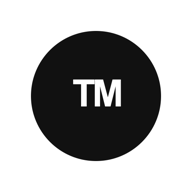
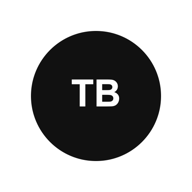
Rename product to Tibo Bless

Changed region(s): [[0.4062, 0.4062, 0.6562, 0.5625], [0.3438, 0.4062, 0.4062, 0.4375]]

diff --git a/app/TiboBless.tsx b/app/TiboBless.tsx
@@ -1,7 +1,7 @@
 "use client";
 
 import { useEffect, useMemo, useState } from "react";
-import { buildForecast, buildMercyCalendar, evaluateCapability, evaluateJuice, predictionPerformance } from "@/lib/monitor-logic";
+import { buildBlessCalendar, buildForecast, evaluateCapability, evaluateJuice, predictionPerformance } from "@/lib/monitor-logic";
 import { monitorData, type Localized } from "./monitor-data";
 
 type Language = "ko" | "en";
@@ -11,14 +11,14 @@ type InstallPrompt = Event & { prompt: () => Promise<void>; userChoice: Promise<
 const labels = {
   ko: {
     reset: "리셋", juice: "Juice", capability: "역량", alerts: "알림", installApp: "앱 설치", installHint: "브라우저 메뉴에서 ‘홈 화면에 추가’ 또는 ‘앱 설치’를 선택하세요.", language: "EN",
-    eyebrow: "공개 근거 기반 CODEX 모니터", heroTitle: "Tibo의 자비는\n언제 올까요?",
+    eyebrow: "공개 근거 기반 CODEX 모니터", heroTitle: "Tibo의 축복은\n언제 올까요?",
     heroBody: "공개 게시물의 표현, 범위, 시점을 분류해 글로벌 Codex 리셋과 다음 24·48시간 가능성을 추적합니다.",
     heroCta: "최신 근거 보기", verified: "검증된 공개 근거", noGuarantee: "실험적 확률 · 보장값 아님",
     nextReset: "다음 리셋 가능성", lastReset: "마지막 확정 리셋", since: "경과", hours24: "24시간", hours48: "48시간",
     analysis: "계산 근거", trackRecord: "예측 기록", forecastReason: "왜 이 확률인가요?",
     baseline: "활성 예측 신호가 없어 보수적인 과거 리셋 간격 기준을 사용합니다.",
-    waitingKicker: "THE WAITING GAME", waitingTitle: "우리는 기다렸고, Tibo는 리셋했다.", waitingBody: "최근 26주를 한눈에 봅니다. 검은 칸은 자비가 온 날, 숫자는 하루에 여러 번 리셋된 날입니다.",
-    mercyDays: "자비가 온 날", currentWait: "현재 기다림", longestWait: "최장 기다림", less: "기다림", more: "자비", noReset: "리셋 없음", resetsOnDay: "회 리셋", calendarHint: "리셋된 날짜를 누르면 공개 근거로 이동합니다.",
+    waitingKicker: "THE WAITING GAME", waitingTitle: "우리는 기다렸고, Tibo의 축복이 왔다.", waitingBody: "최근 26주를 한눈에 봅니다. 검은 칸은 축복이 온 날, 숫자는 하루에 여러 번 리셋된 날입니다.",
+    blessDays: "축복이 온 날", currentWait: "현재 기다림", longestWait: "최장 기다림", less: "기다림", more: "축복", noReset: "리셋 없음", resetsOnDay: "회 리셋", calendarHint: "리셋된 날짜를 누르면 공개 근거로 이동합니다.",
     sourceLedger: "출처를 보존하는 공개 장부", timeline: "리셋 타임라인", timelineBody: "확정 리셋과 확률을 바꾼 공개 신호. 최신 항목부터 표시합니다.",
     confirmed: "확정 리셋", signal: "공개 신호", source: "원문 보기", scope: "범위",
     evidenceKicker: "최신 검증 근거", evidenceTitle: "완료형 + 광범위 범위", evidenceBody: "기대, 요청, 개인 한도가 아니라 광범위한 사용자에게 완료된 리셋이라고 명시해야 확정합니다.", whyConfirmed: "확정 이유",
@@ -31,14 +31,14 @@ const labels = {
   },
   en: {
     reset: "Reset", juice: "Juice", capability: "Capability", alerts: "Alerts", installApp: "Install app", installHint: "Choose ‘Install app’ or ‘Add to Home Screen’ from your browser menu.", language: "KO",
-    eyebrow: "PUBLIC-EVIDENCE CODEX MONITOR", heroTitle: "When will Tibo\nshow mercy?",
+    eyebrow: "PUBLIC-EVIDENCE CODEX MONITOR", heroTitle: "When will Tibo\nbless us?",
     heroBody: "We classify the wording, scope, and timing of public posts to track global Codex resets and the next 24/48-hour probability.",
     heroCta: "See latest evidence", verified: "Verified public evidence", noGuarantee: "Experimental probability · not a guarantee",
     nextReset: "Next reset probability", lastReset: "Latest confirmed reset", since: "Elapsed", hours24: "24 hours", hours48: "48 hours",
     analysis: "Calculation", trackRecord: "Track record", forecastReason: "Why this estimate?",
     baseline: "No active predictive signal remains, so the conservative historical reset-interval baseline is used.",
-    waitingKicker: "THE WAITING GAME", waitingTitle: "We waited. Tibo reset.", waitingBody: "A 26-week view of the wait. Black means mercy arrived; a number marks multiple resets on the same day.",
-    mercyDays: "Mercy days", currentWait: "Current wait", longestWait: "Longest wait", less: "Waiting", more: "Mercy", noReset: "No reset", resetsOnDay: "resets", calendarHint: "Select a reset day to open its public evidence.",
+    waitingKicker: "THE WAITING GAME", waitingTitle: "We waited. Tibo blessed us.", waitingBody: "A 26-week view of the wait. Black means the blessing arrived; a number marks multiple resets on the same day.",
+    blessDays: "Blessing days", currentWait: "Current wait", longestWait: "Longest wait", less: "Waiting", more: "Blessings", noReset: "No reset", resetsOnDay: "resets", calendarHint: "Select a reset day to open its public evidence.",
     sourceLedger: "SOURCE-PRESERVING PUBLIC LEDGER", timeline: "Reset timeline", timelineBody: "Confirmed resets and public signals that changed the estimate. Latest first.",
     confirmed: "Confirmed reset", signal: "Public signal", source: "View source", scope: "Scope",
     evidenceKicker: "LATEST VERIFIED EVIDENCE", evidenceTitle: "Completed action + broad scope", evidenceBody: "A post must describe a completed reset for a broad group—not a hope, request, or personal limit—to be confirmed.", whyConfirmed: "Why it is confirmed",
@@ -55,7 +55,7 @@ function local(value: Localized, language: Language) {
   return value[language];
 }
 
-export function TibosMercy() {
+export function TiboBless() {
   const [language, setLanguage] = useState<Language>("ko");
   const [view, setView] = useState<View>("reset");
   const [analysisOpen, setAnalysisOpen] = useState(false);
@@ -66,12 +66,12 @@ export function TibosMercy() {
   const performance = useMemo(() => predictionPerformance(monitorData.forecastHistory, monitorData.events), []);
   const juice = useMemo(() => evaluateJuice(monitorData.juiceSweeps), []);
   const capability = useMemo(() => evaluateCapability(monitorData.capability, now), [now]);
-  const mercyCalendar = useMemo(() => buildMercyCalendar(monitorData.events, now, 26), [now]);
+  const blessCalendar = useMemo(() => buildBlessCalendar(monitorData.events, now, 26), [now]);
   const resets = useMemo(() => [...monitorData.events].sort((a, b) => b.dateTime.localeCompare(a.dateTime)), []);
   const latest = resets[0];
 
   useEffect(() => {
-    const saved = window.localStorage.getItem("tibos-mercy-language");
+    const saved = window.localStorage.getItem("tibo-bless-language");
     // eslint-disable-next-line react-hooks/set-state-in-effect -- hydrate the user preference after SSR
     if (saved === "ko" || saved === "en") setLanguage(saved);
     const hash = window.location.hash.slice(1);
@@ -80,7 +80,7 @@ export function TibosMercy() {
 
   useEffect(() => {
     document.documentElement.lang = language;
-    window.localStorage.setItem("tibos-mercy-language", language);
+    window.localStorage.setItem("tibo-bless-language", language);
   }, [language]);
 
   useEffect(() => {
@@ -120,7 +120,7 @@ export function TibosMercy() {
     if (!("Notification" in window)) return;
     const permission = await Notification.requestPermission();
     if (permission === "granted") {
-      new Notification("Tibos Mercy", { body: language === "ko" ? "브라우저 알림이 켜졌습니다." : "Browser alerts are enabled." });
+      new Notification("Tibo Bless", { body: language === "ko" ? "브라우저 알림이 켜졌습니다." : "Browser alerts are enabled." });
     }
   };
 
@@ -137,8 +137,8 @@ export function TibosMercy() {
   return (
     <div className="site-shell">
       <header className="top-nav">
-        <button className="wordmark" onClick={() => selectView("reset")} aria-label="Tibos Mercy home">
-          <span className="brand-mark">TM</span><strong>Tibos Mercy</strong>
+        <button className="wordmark" onClick={() => selectView("reset")} aria-label="Tibo Bless home">
+          <span className="brand-mark">TB</span><strong>Tibo Bless</strong>
         </button>
         <nav className="nav-pill" aria-label="Monitor views">
           {(["reset", "juice", "capability"] as View[]).map((item) => (
@@ -168,7 +168,7 @@ export function TibosMercy() {
                 </div>
               </div>
               <div className="hero-product-card" aria-label={copy.nextReset}>
-                <div className="product-window-bar"><span /><span /><span /><b>tibos-mercy / reset</b></div>
+                <div className="product-window-bar"><span /><span /><span /><b>tibo-bless / reset</b></div>
                 <div className="product-panel-head"><div><small>{copy.nextReset}</small><strong>{forecast.score48h}%</strong></div><span className="status-badge">LIVE</span></div>
                 <div className="probability-grid">
                   <ProbabilityRing value={forecast.score24h} label={copy.hours24} />
@@ -198,12 +198,12 @@ export function TibosMercy() {
                 <div className="waiting-game-heading">
                   <div className="section-heading"><p className="kicker">{copy.waitingKicker}</p><h2>{copy.waitingTitle}</h2><p>{copy.waitingBody}</p></div>
                   <div className="waiting-stats" aria-label={copy.waitingKicker}>
-                    <div><strong>{mercyCalendar.resetDays}</strong><span>{copy.mercyDays}</span></div>
-                    <div><strong>{mercyCalendar.currentWaitDays ?? "—"}</strong><span>{copy.currentWait} · {copy.days}</span></div>
-                    <div><strong>{mercyCalendar.longestWaitDays ?? "—"}</strong><span>{copy.longestWait} · {copy.days}</span></div>
+                    <div><strong>{blessCalendar.resetDays}</strong><span>{copy.blessDays}</span></div>
+                    <div><strong>{blessCalendar.currentWaitDays ?? "—"}</strong><span>{copy.currentWait} · {copy.days}</span></div>
+                    <div><strong>{blessCalendar.longestWaitDays ?? "—"}</strong><span>{copy.longestWait} · {copy.days}</span></div>
                   </div>
                 </div>
-                <MercyHeatmap calendar={mercyCalendar} language={language} copy={copy} />
+                <BlessHeatmap calendar={blessCalendar} language={language} copy={copy} />
                 <p className="calendar-hint">{copy.calendarHint}</p>
               </div>
             </section>
@@ -265,7 +265,7 @@ export function TibosMercy() {
         )}
       </main>
 
-      <footer className="dark-footer"><div className="container footer-grid"><div><div className="footer-wordmark"><span className="brand-mark">TM</span><strong>Tibos Mercy</strong></div><p>{copy.footerBody}</p></div><div><span>Monitor</span><button onClick={() => selectView("reset")}>{copy.reset}</button><button onClick={() => selectView("juice")}>{copy.juice}</button><button onClick={() => selectView("capability")}>{copy.capability}</button></div><div><span>Sources</span><a href="https://x.com/thsottiaux" target="_blank" rel="noreferrer">Tibo on X</a><a href="https://status.openai.com" target="_blank" rel="noreferrer">OpenAI Status</a><a href="https://codexradar.com/en/" target="_blank" rel="noreferrer">Codex Radar</a></div></div><div className="container footer-bottom"><span>© 2026 Tibos Mercy</span><span>{copy.disclaimer}</span><button onClick={toggleLanguage}>한국어 / English</button></div></footer>
+      <footer className="dark-footer"><div className="container footer-grid"><div><div className="footer-wordmark"><span className="brand-mark">TB</span><strong>Tibo Bless</strong></div><p>{copy.footerBody}</p></div><div><span>Monitor</span><button onClick={() => selectView("reset")}>{copy.reset}</button><button onClick={() => selectView("juice")}>{copy.juice}</button><button onClick={() => selectView("capability")}>{copy.capability}</button></div><div><span>Sources</span><a href="https://x.com/thsottiaux" target="_blank" rel="noreferrer">Tibo on X</a><a href="https://status.openai.com" target="_blank" rel="noreferrer">OpenAI Status</a><a href="https://codexradar.com/en/" target="_blank" rel="noreferrer">Codex Radar</a></div></div><div className="container footer-bottom"><span>© 2026 Tibo Bless</span><span>{copy.disclaimer}</span><button onClick={toggleLanguage}>한국어 / English</button></div></footer>
 
       {analysisOpen && <div className="modal-backdrop" role="presentation" onMouseDown={() => setAnalysisOpen(false)}><section className="analysis-modal" role="dialog" aria-modal="true" aria-label={copy.analysis} onMouseDown={(event) => event.stopPropagation()}><button className="modal-close" onClick={() => setAnalysisOpen(false)} aria-label="Close">×</button><p className="kicker">FORECAST ANALYSIS</p><h2>{copy.analysis}</h2><dl><div><dt>{copy.method}</dt><dd>{forecast.method}</dd></div><div><dt>{copy.sample}</dt><dd>{forecast.sampleSize}</dd></div><div><dt>{copy.mean}</dt><dd>{forecast.meanIntervalDays} days</dd></div><div><dt>{copy.adjustment}</dt><dd>24h {forecast.adjustment24h >= 0 ? "+" : ""}{forecast.adjustment24h}pt · 48h {forecast.adjustment48h >= 0 ? "+" : ""}{forecast.adjustment48h}pt</dd></div></dl><button className="button-primary" onClick={() => setAnalysisOpen(false)}>OK</button></section></div>}
     </div>
@@ -287,7 +287,7 @@ function TrendBars({ values }: { values: number[] }) {
   return <div className="trend-chart" role="img" aria-label="Capability trend">{values.map((value, index) => <i key={`${value}-${index}`} style={{ height: `${Math.max(10, ((value - minimum) / (maximum - minimum)) * 100)}%` }}><span>{value.toFixed(1)}</span></i>)}</div>;
 }
 
-function MercyHeatmap({ calendar, language, copy }: { calendar: ReturnType<typeof buildMercyCalendar>; language: Language; copy: typeof labels.ko | typeof labels.en }) {
+function BlessHeatmap({ calendar, language, copy }: { calendar: ReturnType<typeof buildBlessCalendar>; language: Language; copy: typeof labels.ko | typeof labels.en }) {
   const locale = language === "ko" ? "ko-KR" : "en-US";
   const monthLabels = calendar.weeks.map((week, index) => {
     const firstVisible = week.find((day) => !day.future);
@@ -312,12 +312,12 @@ function MercyHeatmap({ calendar, language, copy }: { calendar: ReturnType<typeo
           {calendar.weeks.map((week, weekIndex) => <div className="heatmap-week" key={weekIndex}>{week.map((day) => {
             const label = describe(day);
             if (day.future) return <span className="heatmap-day future" key={day.date} aria-hidden="true" />;
-            if (day.count) return <a className={`heatmap-day mercy level-${Math.min(day.count, 2)}`} key={day.date} href={day.events[0].sourceUrl} target="_blank" rel="noreferrer" title={label} aria-label={label}>{day.count > 1 ? day.count : ""}</a>;
+            if (day.count) return <a className={`heatmap-day bless level-${Math.min(day.count, 2)}`} key={day.date} href={day.events[0].sourceUrl} target="_blank" rel="noreferrer" title={label} aria-label={label}>{day.count > 1 ? day.count : ""}</a>;
             return <span className="heatmap-day" key={day.date} title={label} aria-label={label} />;
           })}</div>)}
         </div>
       </div>
     </div>
-    <div className="heatmap-legend" aria-hidden="true"><span>{copy.less}</span><i /><i className="mercy" /><i className="mercy level-2">2</i><span>{copy.more}</span></div>
+    <div className="heatmap-legend" aria-hidden="true"><span>{copy.less}</span><i /><i className="bless" /><i className="bless level-2">2</i><span>{copy.more}</span></div>
   </div>;
 }

diff --git a/app/globals.css b/app/globals.css
@@ -95,9 +95,9 @@ h3 { margin: 0; font-size: 20px; line-height: 1.3; letter-spacing: -.02em; }
 .heatmap-weekdays { display: grid; grid-template-rows: repeat(7, 1fr); gap: 6px; }.heatmap-weekdays span { height: 22px; display: flex; align-items: center; color: #71717a; font-size: 9px; }
 .heatmap-weeks { display: grid; grid-template-columns: repeat(26, 1fr); gap: 6px; }.heatmap-week { display: grid; grid-template-rows: repeat(7, 22px); gap: 6px; }
 .heatmap-day { min-width: 22px; height: 22px; display: grid; place-items: center; border: 1px solid #343434; border-radius: 4px; background: #242424; color: var(--canvas); font-family: var(--font-geist-mono), monospace; font-size: 9px; text-decoration: none; }
-.heatmap-day.mercy { border-color: #737373; background: #a3a3a3; }.heatmap-day.level-2 { border-color: var(--canvas); background: var(--canvas); color: var(--ink); font-weight: 700; }.heatmap-day.future { opacity: .18; }
-.heatmap-day.mercy:hover, .heatmap-day.mercy:focus-visible { outline: 2px solid var(--canvas); outline-offset: 2px; }
-.heatmap-legend { display: flex; justify-content: flex-end; align-items: center; gap: 6px; margin-top: 18px; color: #71717a; font-size: 10px; }.heatmap-legend i { width: 16px; height: 16px; display: grid; place-items: center; border: 1px solid #343434; border-radius: 3px; background: #242424; font-style: normal; font-size: 8px; }.heatmap-legend i.mercy { background: #a3a3a3; }.heatmap-legend i.level-2 { border-color: var(--canvas); background: var(--canvas); color: var(--ink); }
+.heatmap-day.bless { border-color: #737373; background: #a3a3a3; }.heatmap-day.level-2 { border-color: var(--canvas); background: var(--canvas); color: var(--ink); font-weight: 700; }.heatmap-day.future { opacity: .18; }
+.heatmap-day.bless:hover, .heatmap-day.bless:focus-visible { outline: 2px solid var(--canvas); outline-offset: 2px; }
+.heatmap-legend { display: flex; justify-content: flex-end; align-items: center; gap: 6px; margin-top: 18px; color: #71717a; font-size: 10px; }.heatmap-legend i { width: 16px; height: 16px; display: grid; place-items: center; border: 1px solid #343434; border-radius: 3px; background: #242424; font-style: normal; font-size: 8px; }.heatmap-legend i.bless { background: #a3a3a3; }.heatmap-legend i.level-2 { border-color: var(--canvas); background: var(--canvas); color: var(--ink); }
 .calendar-hint { margin: 16px 0 0; color: #71717a; font-size: 11px; text-align: right; }
 .timeline-section, .soft-band { background: var(--surface-soft); }
 .section-heading { max-width: 760px; margin-bottom: 48px; }.section-heading > p:last-child { margin: 18px 0 0; color: var(--body); font-size: 16px; line-height: 1.6; }

diff --git a/app/layout.tsx b/app/layout.tsx
@@ -14,28 +14,28 @@ const geistMono = Geist_Mono({
 
 export const metadata: Metadata = {
   metadataBase: new URL("https://tibos-mercy.cloudy-gull-7634.chatgpt.site"),
-  title: "Tibos Mercy — Codex Reset Intelligence",
+  title: "Tibo Bless — Codex Reset Intelligence",
   description:
     "A bilingual monitor for verified Codex resets, reasoning Juice, and capability signals.",
-  applicationName: "Tibos Mercy",
+  applicationName: "Tibo Bless",
   manifest: "/manifest.webmanifest",
   icons: {
     icon: [{ url: "/icon-192.png", sizes: "192x192", type: "image/png" }, { url: "/icon-512.png", sizes: "512x512", type: "image/png" }],
     apple: [{ url: "/apple-touch-icon.png", sizes: "180x180", type: "image/png" }],
   },
-  appleWebApp: { capable: true, statusBarStyle: "black-translucent", title: "Tibos Mercy" },
+  appleWebApp: { capable: true, statusBarStyle: "black-translucent", title: "Tibo Bless" },
   openGraph: {
-    title: "Tibos Mercy",
+    title: "Tibo Bless",
     description:
       "Verified Codex reset evidence, forecast probabilities, Juice, and capability signals — in Korean and English.",
     type: "website",
     locale: "ko_KR",
     alternateLocale: "en_US",
-    images: [{ url: "/og.png", width: 1731, height: 909, alt: "Tibos Mercy — Codex Reset Intelligence" }],
+    images: [{ url: "/og.png", width: 1734, height: 907, alt: "Tibo Bless — Codex Reset Intelligence" }],
   },
   twitter: {
     card: "summary_large_image",
-    title: "Tibos Mercy",
+    title: "Tibo Bless",
     description: "Bilingual Codex reset intelligence.",
     images: ["/og.png"],
   },

diff --git a/lib/monitor-logic.js b/lib/monitor-logic.js
@@ -123,7 +123,7 @@ export function predictionPerformance(forecasts, events, threshold = 50) {
   return { eligible, hits, hitRate: eligible ? Math.round((hits / eligible) * 100) : null };
 }
 
-export function buildMercyCalendar(events, endDate = new Date(), weekCount = 26) {
+export function buildBlessCalendar(events, endDate = new Date(), weekCount = 26) {
   const safeWeekCount = clamp(Math.trunc(weekCount) || 26, 1, 52);
   const end = new Date(endDate);
   end.setUTCHours(0, 0, 0, 0);

diff --git a/public/sw.js b/public/sw.js
@@ -1,4 +1,4 @@
-const CACHE_NAME = "tibos-mercy-v3";
+const CACHE_NAME = "tibo-bless-v4";
 const APP_SHELL = ["/", "/manifest.webmanifest", "/icon-192.png", "/icon-512.png", "/apple-touch-icon.png", "/og.png"];
 
 self.addEventListener("install", (event) => {

diff --git a/app/page.tsx b/app/page.tsx
@@ -1,5 +1,5 @@
-import { TibosMercy } from "./TibosMercy";
+import { TiboBless } from "./TiboBless";
 
 export default function Home() {
-  return <TibosMercy />;
+  return <TiboBless />;
 }

diff --git a/README.md b/README.md
@@ -1,15 +1,15 @@
-# Tibos Mercy
+# Tibo Bless
 
-[![Open Tibos Mercy PWA](https://img.shields.io/badge/Open_PWA-Tibos_Mercy-111111?style=for-the-badge)](https://tibos-mercy.cloudy-gull-7634.chatgpt.site)
+[![Open Tibo Bless PWA](https://img.shields.io/badge/Open_PWA-Tibo_Bless-111111?style=for-the-badge)](https://tibos-mercy.cloudy-gull-7634.chatgpt.site)
 
 **[PWA 실행·설치 / Open & install the PWA](https://tibos-mercy.cloudy-gull-7634.chatgpt.site)**
 
 브라우저의 `앱 설치` 또는 `홈 화면에 추가` 기능으로 설치할 수 있습니다. 앱 상단의 **앱 설치** 버튼도 같은 설치 흐름을 안내합니다.  
 Install it through your browser’s **Install app** or **Add to Home Screen** action. The in-app **Install app** button opens the same flow.
 
-Tibos Mercy는 공개 근거를 바탕으로 Codex의 글로벌 사용량 리셋, reasoning Juice, 모델 역량 변화를 추적하는 한국어·영어 동시 지원 웹 앱입니다.
+Tibo Bless는 공개 근거를 바탕으로 Codex의 글로벌 사용량 리셋, reasoning Juice, 모델 역량 변화를 추적하는 한국어·영어 동시 지원 웹 앱입니다.
 
-Tibos Mercy is a bilingual Korean/English web app that monitors global Codex usage resets, reasoning Juice, and model-capability signals from public evidence.
+Tibo Bless is a bilingual Korean/English web app that monitors global Codex usage resets, reasoning Juice, and model-capability signals from public evidence.
 
 ## 핵심 로직 / Core logic
 
@@ -42,7 +42,7 @@ npm run lint
 ## 구조 / Structure
 
 ```text
-app/TibosMercy.tsx     bilingual product UI and interactions
+app/TiboBless.tsx      bilingual product UI and interactions
 app/monitor-data.ts    public evidence and measurement snapshot
 lib/monitor-logic.js   classification, forecast, Juice, capability logic
 public/manifest.webmanifest  PWA metadata and install icons
@@ -57,4 +57,4 @@ tests/                 logic and server-render tests
 
 The repository ships with a source-linked public sample snapshot. Live recurring collection requires X API access and a scheduler. Juice is not an official OpenAI metric, and all probabilities are experimental estimates—not guarantees.
 
-Tibos Mercy is independent and not affiliated with OpenAI.
+Tibo Bless is independent and not affiliated with OpenAI.
